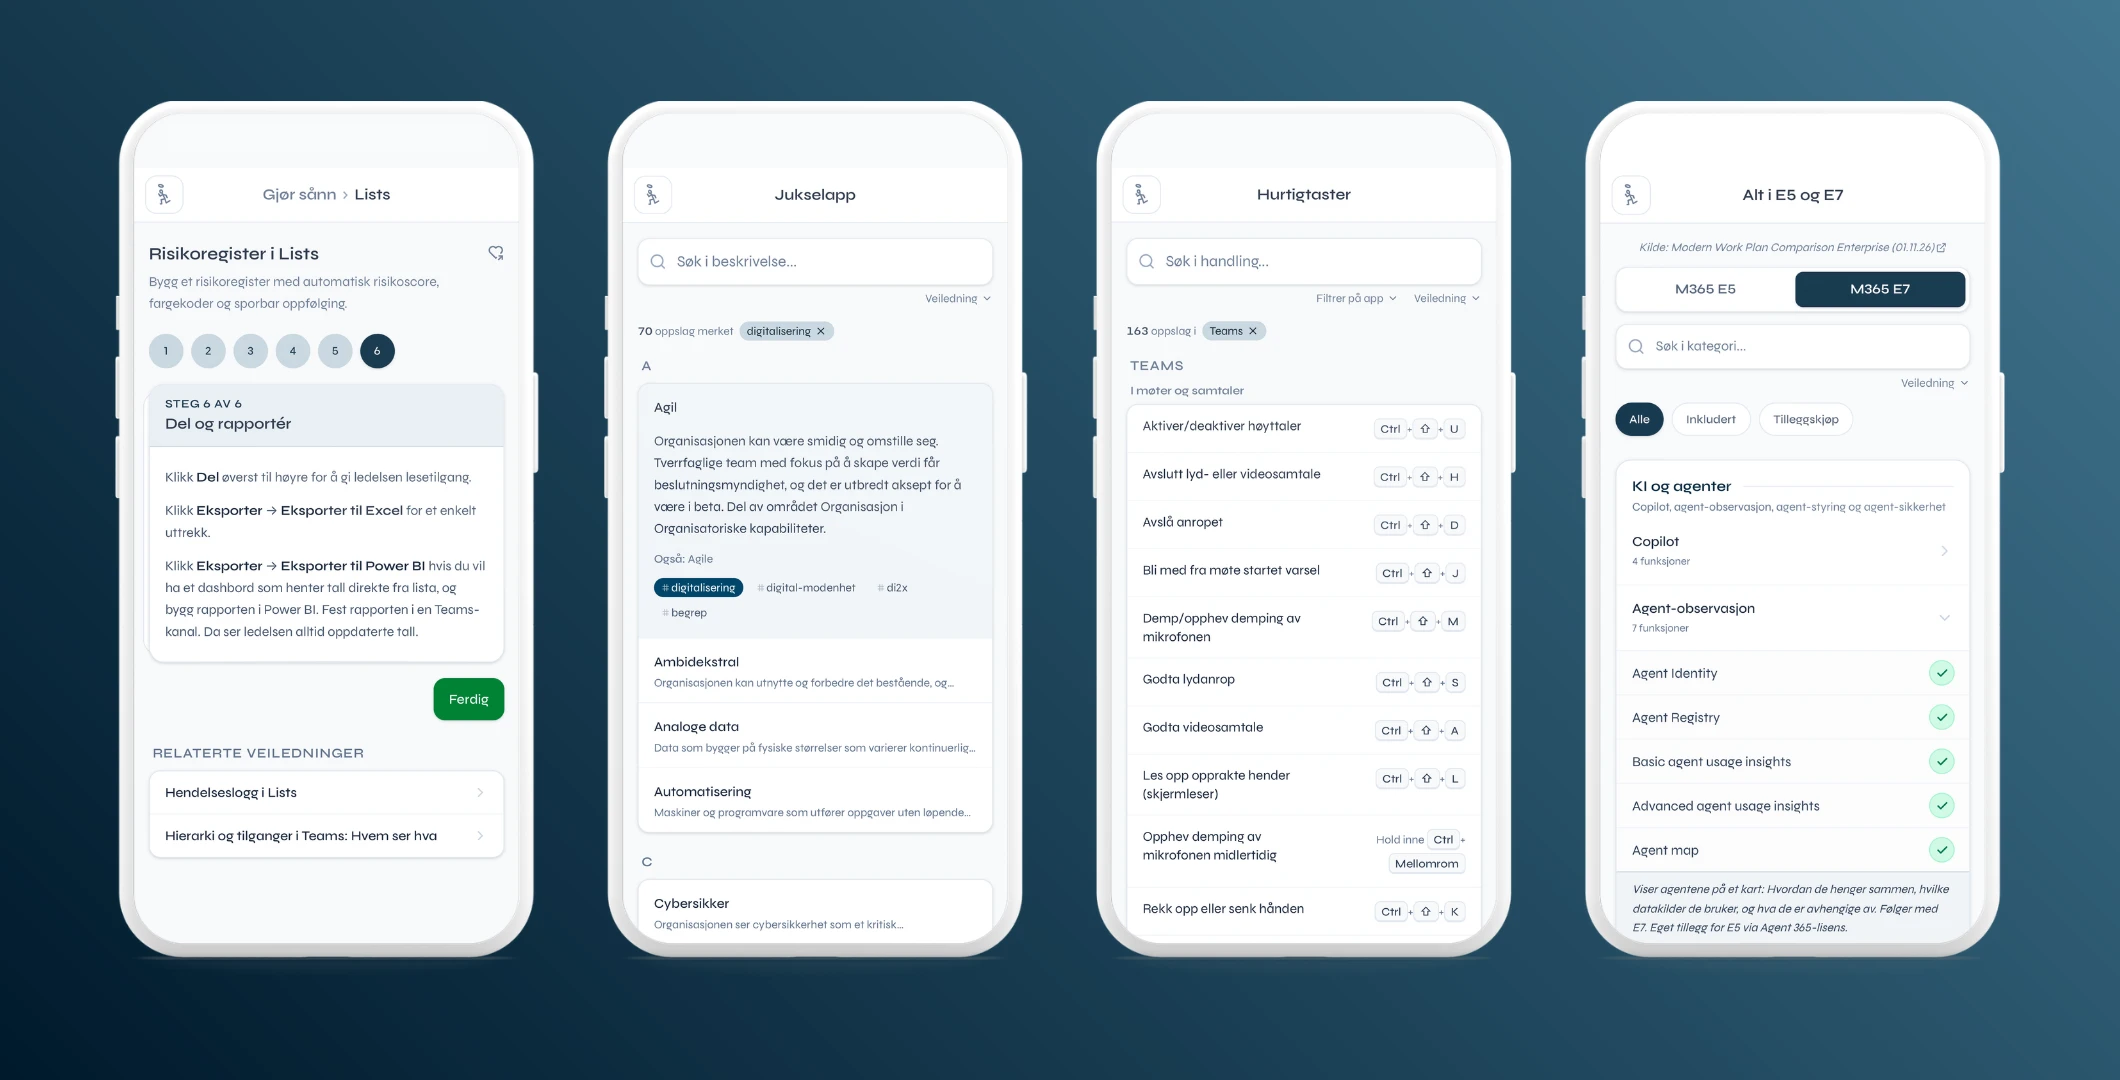
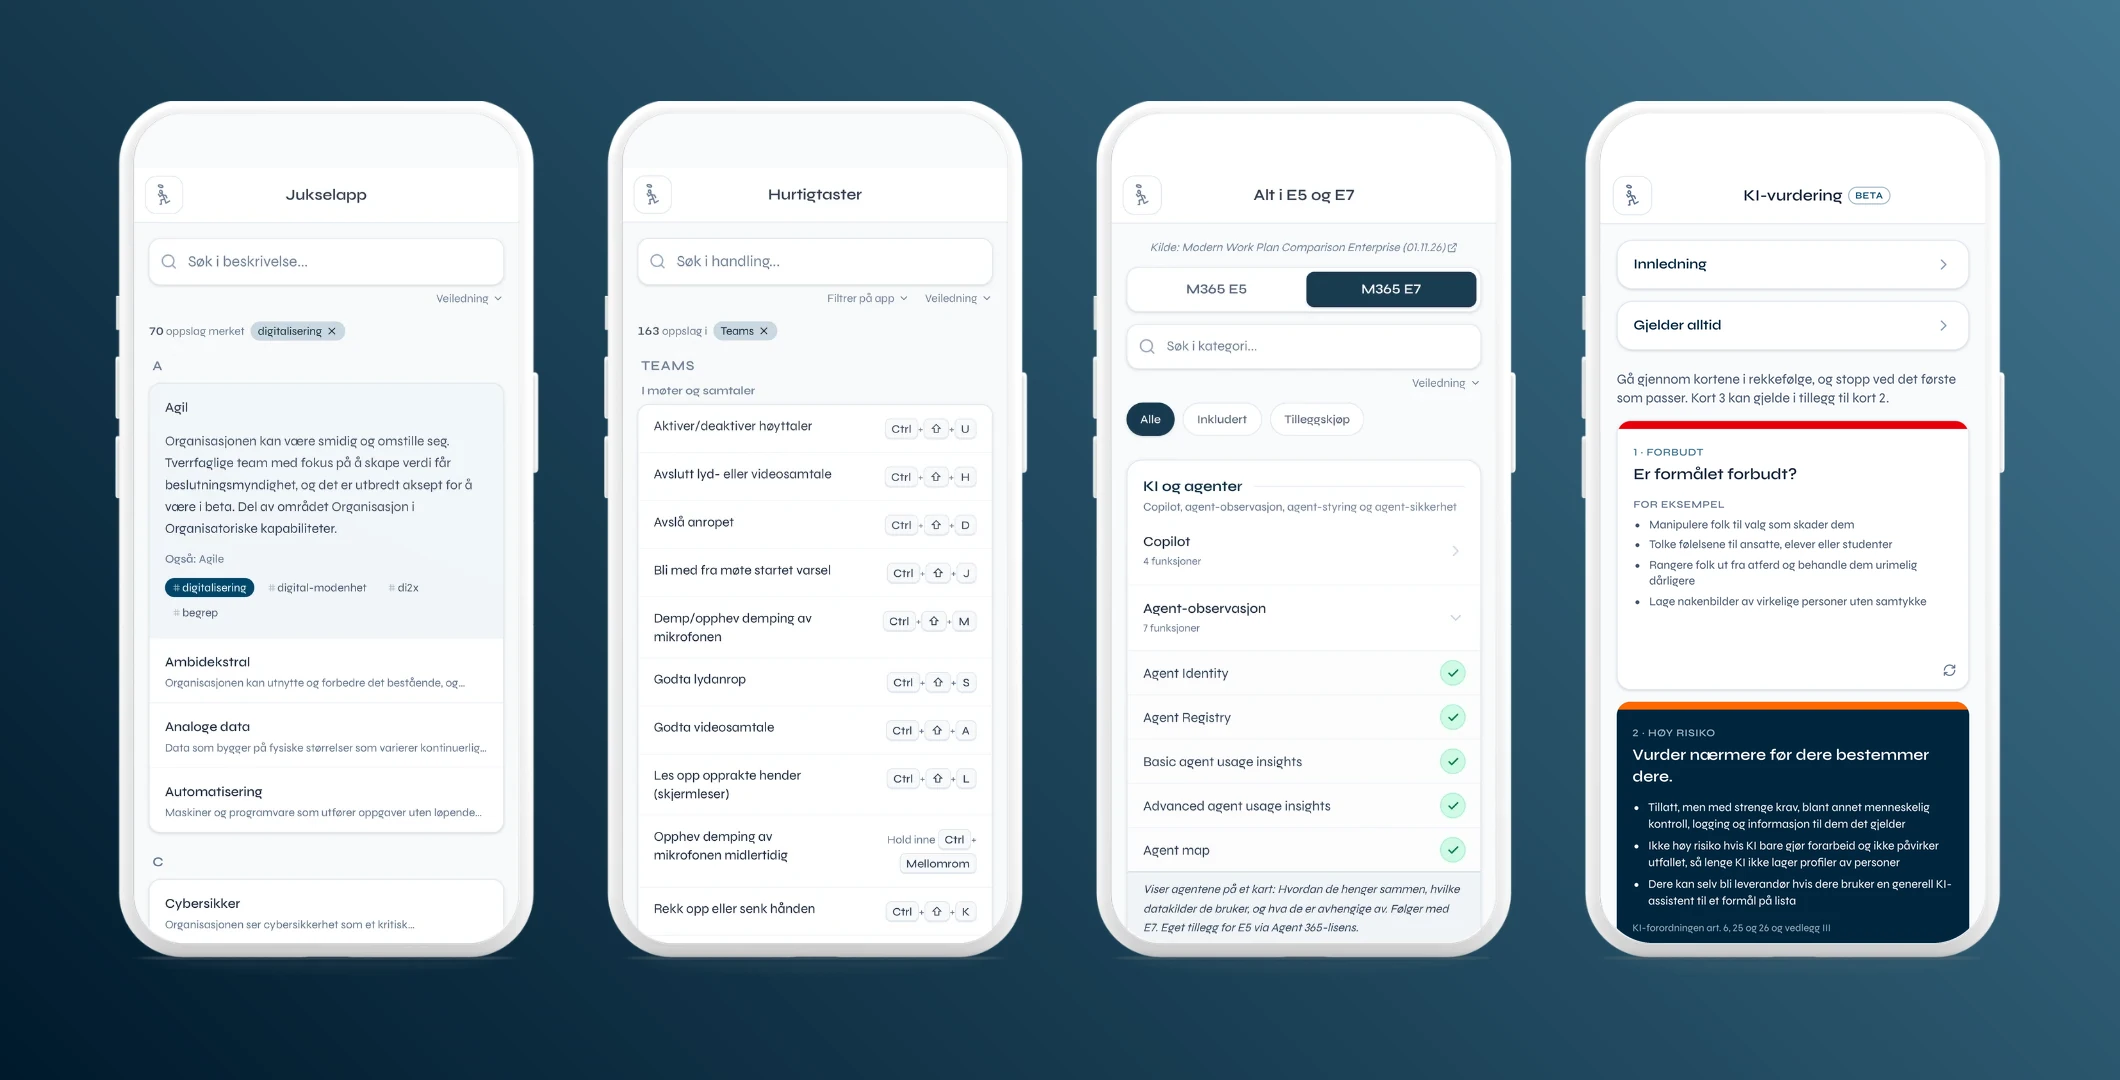
docs: README screenshots show the Home card and the KI-vurdering view
- oversikt-1: Home with KI-vurdering, Appene, Se og hør, the Lists guide
- oversikt-2: Jukselapp, Hurtigtaster, Alt i E5 og E7, KI-vurdering
- new screens captured at 390 px, set into the existing phone frames at the same position, scale and corner radius; WebP q90, no metadata
Decision: two images of four, as before; the Lists guide stands for «Gjør sånn», so the eight slots keep the Home order.

diff --git a/README.md b/README.md
@@ -11,8 +11,8 @@ Jeg har laget appen **1-2-365** for å sette turbo på:
 Trykk på et bilde for å se det i full størrelse.
 
 <p>
-  <a href="docs/screenshots/oversikt-1.webp"><img width="49%" alt="Fire skjermbilder fra 1-2-365: Startsiden, Appene, Se og hør og Gjør sånn" src="docs/screenshots/oversikt-1.webp"></a>
-  <a href="docs/screenshots/oversikt-2.webp"><img width="49%" alt="Fire skjermbilder fra 1-2-365: En veiledning i Lists, Jukselapp, Hurtigtaster og Alt i E5 og E7" src="docs/screenshots/oversikt-2.webp"></a>
+  <a href="docs/screenshots/oversikt-1.webp"><img width="49%" alt="Fire skjermbilder fra 1-2-365: Startsiden, Appene, Se og hør og en veiledning i Lists" src="docs/screenshots/oversikt-1.webp"></a>
+  <a href="docs/screenshots/oversikt-2.webp"><img width="49%" alt="Fire skjermbilder fra 1-2-365: Jukselapp, Hurtigtaster, Alt i E5 og E7 og KI-vurdering" src="docs/screenshots/oversikt-2.webp"></a>
 </p>
 
 ## Tech stack
